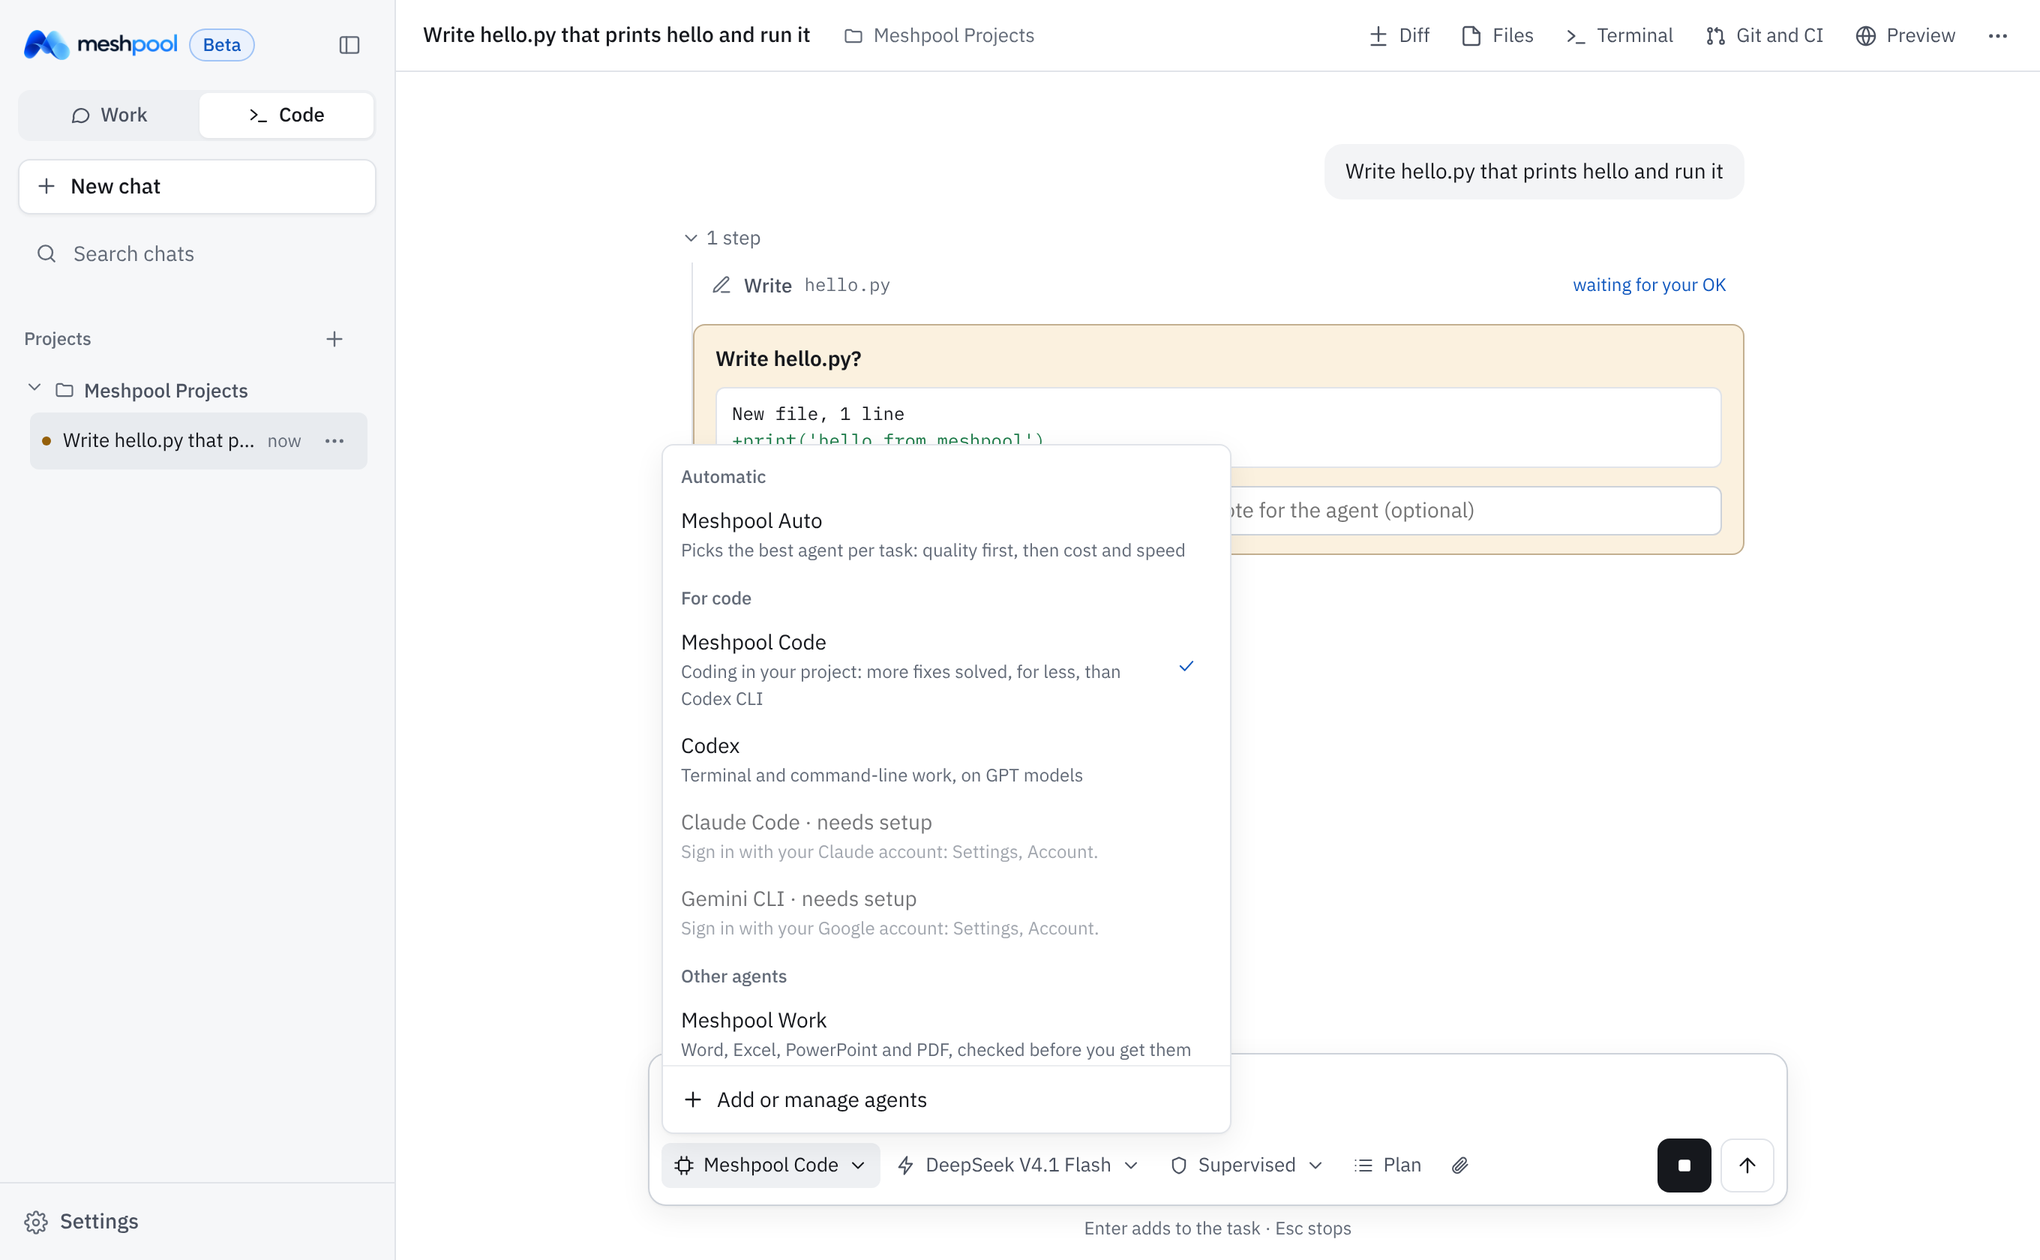
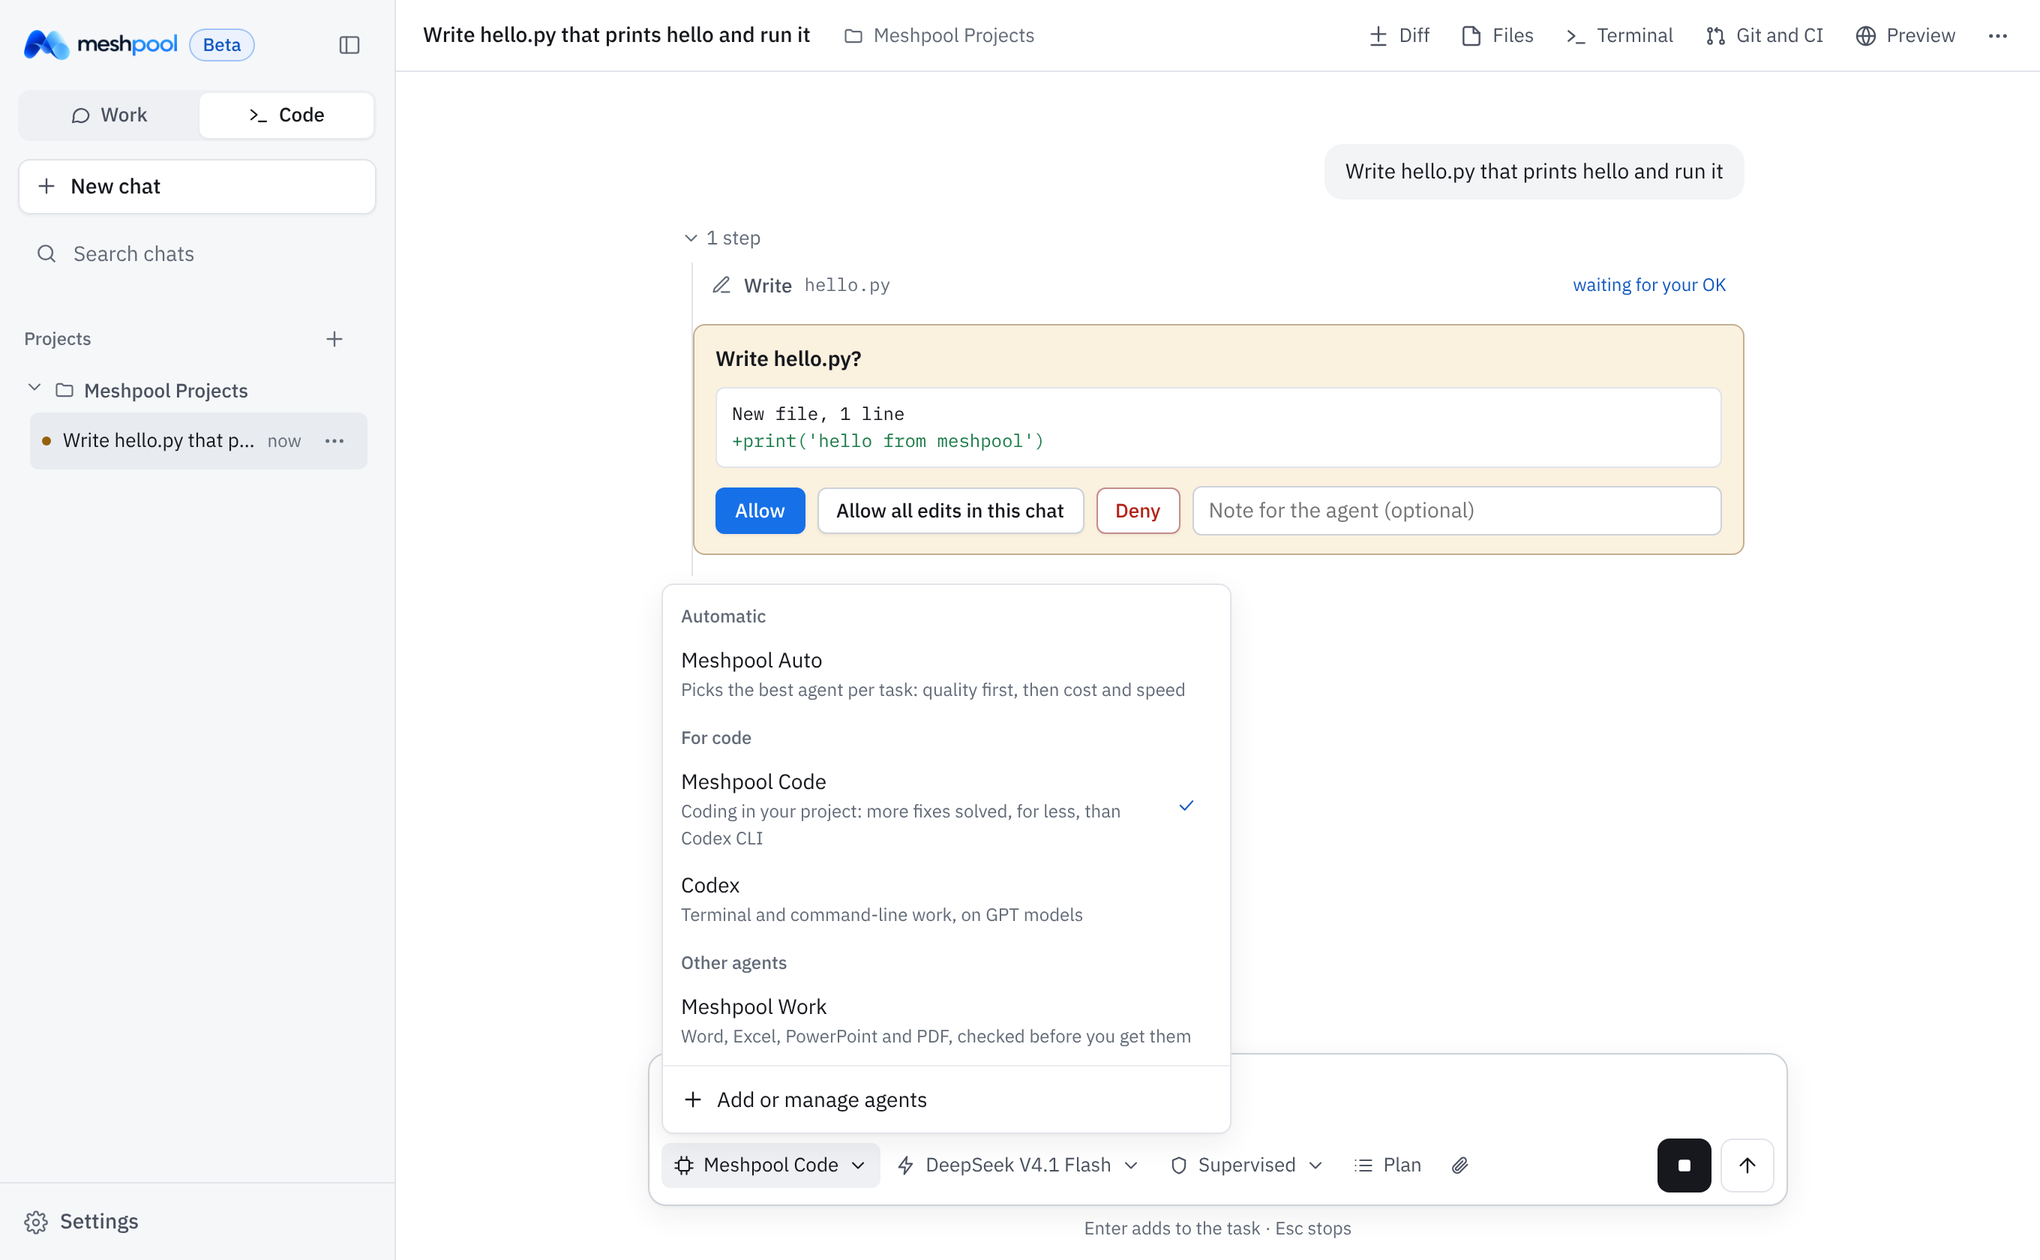
Declutter: one engine flag set instead of harness versions v2-v5, no 'older checks' profile, no experiment toggles in Settings, no license in About; fresh screenshots

Changed region(s): [[0.3397, 0.3405, 0.6176, 0.8357]]

diff --git a/app/meshpool_harness/ui/app.js b/app/meshpool_harness/ui/app.js
@@ -1610,9 +1610,7 @@ async function renderSection(sec) {
     b.innerHTML = `${close}<img class="logo" src="${logoSrc()}" alt="Meshpool" style="height:30px;margin-bottom:12px"><h3>Meshpool ${esc(a.version)}${/^0\./.test(a.version) ? " beta" : ""}</h3>
       <p class="lead">Made by ${esc(a.author)}. <a href="https://meshpool.ai" target="_blank" rel="noopener">meshpool.ai</a> · <a href="https://github.com/hamzaaziada/meshpool-harness/releases" target="_blank" rel="noopener">All releases</a> · <button class="linkbtn" id="aboutReport">Report a problem</button></p>
       <div class="updbox" id="updBox"><div style="display:flex;gap:8px;align-items:center;flex-wrap:wrap"><button class="btn" id="updCheck">Check for updates</button><span class="res" id="updRes" style="margin:0"></span></div><div id="updMore"></div></div>
-      <h3 style="font-size:16px;margin:16px 0 6px">License</h3><pre class="lic">${esc(a.notice)}</pre>
-      <details style="margin-top:10px"><summary class="linkbtn" style="display:inline">Apache License 2.0, full text</summary><pre class="lic">${esc(a.license)}</pre></details>
-      <details style="margin-top:8px"><summary class="linkbtn" style="display:inline">Third-party software</summary><pre class="lic">${esc(a.third_party)}</pre></details>`;
+      <details style="margin-top:16px"><summary class="linkbtn" style="display:inline">Third-party software</summary><pre class="lic">${esc(a.third_party)}</pre></details>`;
     $("#aboutReport").onclick = () => reportProblem();
     updatePanel(S.upd);
     $("#updCheck").onclick = async () => { RES("updRes").className = "res"; RES("updRes").textContent = "Checking..."; updatePanel(await checkUpdate(true)); };

diff --git a/app/tests/test_guards_features.py b/app/tests/test_guards_features.py
@@ -1,4 +1,4 @@
-"""v2 minimal profile: guard switches, additive test guard, feature defaults, timing log. No model calls."""
+"""Guard switches, additive test guard, feature defaults, timing log. No model calls."""
 import json
 import subprocess
 import sys
@@ -29,9 +29,7 @@ def _serve_dir(d) -> str:
 
 def test_guard_defaults_and_overrides(monkeypatch):
     monkeypatch.delenv("MH_GUARDS", raising=False)
-    monkeypatch.delenv("MH_HARNESS_PROFILE", raising=False)
-    assert all(G.enabled(g) for g in G.ALL_GUARDS)                 # v1: everything on
-    monkeypatch.setenv("MH_HARNESS_PROFILE", "minimal")
+    monkeypatch.delenv("MH_TEST_GUARD", raising=False)
     assert G.enabled("repeat_failure") and G.enabled("test_guard") and G.enabled("deliverables")
     assert not G.enabled("progress") and not G.enabled("explore_lock") and not G.enabled("finish_check")
     assert G.test_guard_mode() == "additive"
@@ -39,6 +37,8 @@ def test_guard_defaults_and_overrides(monkeypatch):
     assert G.enabled("progress") and not G.enabled("repeat_failure")
     monkeypatch.setenv("MH_GUARDS", "none")
     assert not G.enabled("test_guard")
+    monkeypatch.setenv("MH_GUARDS", "all")
+    assert all(G.enabled(g) for g in G.ALL_GUARDS)
 
 
 def _repo():
@@ -70,10 +70,9 @@ def test_test_guard_modes(monkeypatch, mode, change, blocked):
 
 def test_feature_defaults(monkeypatch):
     from engines.code.engine import feature
-    monkeypatch.delenv("MH_HARNESS_PROFILE", raising=False)
     monkeypatch.delenv("MH_ESCALATE", raising=False)
-    assert feature("MH_ESCALATE") and feature("MH_REGRESSION_GATE")
-    monkeypatch.setenv("MH_HARNESS_PROFILE", "minimal")
+    monkeypatch.delenv("MH_REGRESSION_GATE", raising=False)
+    monkeypatch.delenv("MH_TESTCMD", raising=False)
     assert not feature("MH_ESCALATE") and not feature("MH_REGRESSION_GATE") and feature("MH_TESTCMD")
     monkeypatch.setenv("MH_ESCALATE", "1")                          # each feature can be added back on its own
     assert feature("MH_ESCALATE")
@@ -82,7 +81,6 @@ def test_feature_defaults(monkeypatch):
 def test_timing_log(monkeypatch, tmp_path):
     log = tmp_path / "timing.jsonl"
     monkeypatch.setenv("MH_TIMING_LOG", str(log))
-    monkeypatch.setenv("MH_HARNESS_PROFILE", "minimal")
     d = tmp_path / "w"
     d.mkdir()
     (d / "f.txt").write_text("hello\n")
@@ -93,7 +91,7 @@ def test_timing_log(monkeypatch, tmp_path):
             require_check=False)
     assert r.ok
     row = json.loads(log.read_text().splitlines()[-1])
-    assert row["task_id"] == "tt" and row["model_calls"] == 2 and row["profile"] == "minimal"
+    assert row["task_id"] == "tt" and row["model_calls"] == 2
     assert row["model_s"] >= 0 and row["tool_s"] >= 0 and row["wall_s"] >= row["model_s"]
 
 

diff --git a/app/meshpool_harness/core/loop.py b/app/meshpool_harness/core/loop.py
@@ -82,9 +82,9 @@ from .finishing import scope_report as _scope_report  # noqa: E402,F401  (shared
 
 class _KeepWarm:
     """MH_KEEPWARM_S=<seconds> (default off). While tools run longer than that, re-send the conversation so far with
-    max_tokens=24 every <seconds> (the gateway sends max_tokens=1 requests to a backend without this cache: findings
-    006), so the serving side keeps its prompt cache warm. Run C showed almost all avoidable
-    cache misses come after gaps over 40 s between calls (harness-lab/findings/001). A ping reads the prefix at the
+    max_tokens=24 every <seconds> (the gateway sends max_tokens=1 requests to a backend without this cache), so the
+    serving side keeps its prompt cache warm. Run C showed almost all avoidable
+    cache misses come after gaps over 40 s between calls. A ping reads the prefix at the
     cached price (about 50 times cheaper than a miss). The prefix ends before the latest assistant message, so the
     request stays valid (no tool call without its result) and is an exact prefix of the next real request. It keeps the
     real task_id so it carries the same prompt_cache_key and session header (same backend); role="keepwarm" marks it."""
@@ -169,7 +169,7 @@ def _run(task_text: str, *, client, model: str, profile, ws: Workspace, ctx: dic
     if os.environ.get("MH_OBSERVE") == "1" and "bash" in tool_names and "probe" not in tool_names:
         i = tool_names.index("bash") + 1                                     # see the bug before editing it
         tool_names = tool_names[:i] + ["probe", "trace"] + tool_names[i:]
-    if os.environ.get("MH_TODO") == "1" and "todo" not in tool_names:      # v3: required todo list (ForgeCode)
+    if os.environ.get("MH_TODO") == "1" and "todo" not in tool_names:      # required todo list (ForgeCode)
         tool_names = [n for n in tool_names if n != "finish"] + ["todo", "finish"]
     sys_msg, tools, sha = build_prefix(system_text, tool_names, ws.skills)
     messages = [{"role": "system", "content": sys_msg}, {"role": "user", "content": task_text}]

diff --git a/app/engines/code/engine.py b/app/engines/code/engine.py
@@ -190,7 +190,7 @@ def solve(task: str, *, workdir: str, task_id: str, max_turns: int = 60, model: 
     ctx = {"task_id": task_id, "model": model, "profile": "deepseek", "role": "worker"}
     import time as _time
     t0 = _time.time()
-    if os.environ.get("MH_ENV_SNAPSHOT") == "1":            # v3: saves the first exploration turns (Meta-Harness, Droid)
+    if os.environ.get("MH_ENV_SNAPSHOT") == "1":            # saves the first exploration turns (Meta-Harness, Droid)
         try:
             snap, _ = ws._run("pwd; ls -la 2>/dev/null | head -40; echo '---'; "
                               "(python3 --version; pip --version; node --version; gcc --version | head -1; go version; "
@@ -205,10 +205,10 @@ def solve(task: str, *, workdir: str, task_id: str, max_turns: int = 60, model: 
     if os.environ.get("MH_MULTI_CMD") == "1":
         system += ("\nTurns are limited. When you need several independent facts (file ranges, greps, versions, listings), "
                    "get them in ONE bash_many call instead of one command per turn.")
-    if os.environ.get("MH_TERSE") == "1":              # v4: output tokens cost 4x input; keep prose between calls short
+    if os.environ.get("MH_TERSE") == "1":              # output tokens cost 4x input; keep prose between calls short
         system += ("\nBetween tool calls write at most one short sentence. Put the work in tool arguments, not in "
                    "prose, and do not repeat file contents or command output back.")
-    if os.environ.get("MH_OBSERVE") == "1":               # see the bug before editing it (findings 007)
+    if os.environ.get("MH_OBSERVE") == "1":               # see the bug before editing it (core/observe.py)
         system += ("\nBefore your first edit, reproduce the problem with probe (a failing test or a short script) "
                    "and read its diagnosis. If the cause is not clear, run trace on the same command to see which "
                    "project functions run. After an edit, use probe to see what still fails.")

diff --git a/app/tests/test_finish_same_turn.py b/app/tests/test_finish_same_turn.py
@@ -1,5 +1,4 @@
 """MH_CODE_FINISH_SAME_TURN: a check and finish in one turn; the guard still refuses a failing check (no model calls)."""
-import json
 import subprocess
 
 from meshpool_harness.core.client import MockClient, tool_call
@@ -38,7 +37,8 @@ def test_pass_and_finish_in_one_turn(tmp_path):
     assert r.ok and r.turns == 3 and len(c.requests) == 3
 
 
-def test_failing_check_refuses_same_turn_finish(tmp_path):
+def test_failing_check_refuses_same_turn_finish(tmp_path, monkeypatch):
+    monkeypatch.setenv("MH_GUARDS", "all")                          # finish_check is off by default
     d = _repo(tmp_path)
     r, c = _go(d, [tool_call("read_file", {"path": "calc.py"}),
                    tool_call("edit", {"path": "calc.py", "old": "a - b", "new": "a * b"}), _both("wrong"),
@@ -53,4 +53,4 @@ def test_prompt_line_only_with_flag(monkeypatch):
     eng = importlib.import_module("engines.code.engine")
     src = open(eng.__file__).read()
     assert 'os.environ.get("MH_CODE_FINISH_SAME_TURN") == "1"' in src
-    assert "finish together in the same turn" not in json.dumps([eng.SYSTEM, eng.SYSTEM_MIN])
+    assert "finish together in the same turn" not in eng.SYSTEM

diff --git a/app/tests/test_terminal_mode.py b/app/tests/test_terminal_mode.py
@@ -17,6 +17,7 @@ def _ws():
 
 
 def test_progress_nudge_off_in_terminal_mode(monkeypatch):
+    monkeypatch.setenv("MH_GUARDS", "all")                          # these guards are off by default
     g = Guards({"task_id": "t"}, _ws())
     monkeypatch.delenv("MH_MODE", raising=False)
     assert g.progress(12, 60, 0, True)
@@ -26,6 +27,7 @@ def test_progress_nudge_off_in_terminal_mode(monkeypatch):
 
 
 def test_exploration_lock_off_in_terminal_mode(monkeypatch):
+    monkeypatch.setenv("MH_GUARDS", "all")                          # these guards are off by default
     monkeypatch.setenv("MH_MODE", "terminal")
     script = [tool_call("bash", {"command": f"echo step{i}"}) for i in range(28)]
     script += [tool_call("finish", {"answer": "done", "evidence": ["echo step27"]})] * 3
@@ -44,6 +46,7 @@ def test_timeout_cap_terminal(monkeypatch):
 
 
 def test_light_mode_turns_off_nudges(monkeypatch):
+    monkeypatch.setenv("MH_GUARDS", "all")                          # these guards are off by default
     monkeypatch.setenv("MH_MODE", "light")
     g = Guards({"task_id": "t"}, _ws())
     assert g.progress(12, 60, 0, True) is None

diff --git a/app/tests/test_loop.py b/app/tests/test_loop.py
@@ -35,7 +35,8 @@ def test_happy_path(tmp_path):
     assert r.ok and "a + b" in (d / "calc.py").read_text()
 
 
-def test_finish_without_check_rejected(tmp_path):
+def test_finish_without_check_rejected(tmp_path, monkeypatch):
+    monkeypatch.setenv("MH_GUARDS", "all")                          # finish_check is off by default
     d = repo(tmp_path)
     r, c, ws = go(d, [tool_call("read_file", {"path": "calc.py"}),
                       tool_call("edit", {"path": "calc.py", "old": "a - b", "new": "a + b"}),
@@ -88,7 +89,8 @@ def test_repeat_failure_guard(tmp_path):
     assert any("repeat_failure" in m["content"] for m in c.requests[3]["messages"] if m["role"] == "user")
 
 
-def test_error_not_quoted_guard(tmp_path):
+def test_error_not_quoted_guard(tmp_path, monkeypatch):
+    monkeypatch.setenv("MH_GUARDS", "all")                          # error_quote is off by default
     d = repo(tmp_path)
     r, c, ws = go(d, [tool_call("run_tests", {"command": T}),
                       tool_call("glob", {"pattern": "*.py"}),

diff --git a/app/meshpool_harness/core/guards.py b/app/meshpool_harness/core/guards.py
@@ -94,7 +94,7 @@ class Guards:
         return "\n".join(msgs) or None
 
     def stall(self, turn: int) -> str | None:
-        """v3 loop breaker (MH_STALL=1): progress = a file change or a passing command not run before. After 12 turns
+        """Loop breaker (MH_STALL=1): progress = a file change or a passing command not run before. After 12 turns
         without progress, nudge once to change approach; again at 24. Never blocks anything."""
         if os.environ.get("MH_STALL") != "1":
             return None
@@ -116,7 +116,7 @@ class Guards:
         return None
 
     def repeat_calls(self, calls: list) -> str | None:
-        """v3 (MH_DOOM=1): 3 identical tool calls in a row, or a 2-3 call pattern repeated 3 times -> one reminder."""
+        """MH_DOOM=1: 3 identical tool calls in a row, or a 2-3 call pattern repeated 3 times -> one reminder."""
         if os.environ.get("MH_DOOM") != "1" or not calls:
             return None
         hist = getattr(self, "_call_hist", [])

diff --git a/app/meshpool_harness/harness_router.py b/app/meshpool_harness/harness_router.py
@@ -54,8 +54,8 @@ def classify(text: str, t: dict | None = None) -> tuple[str, list[str]]:
 def _ready(kind: str) -> dict:
     """Harnesses Auto may pick: installed, set up on a provider, and not a subscription the user kept for itself."""
     from meshpool_harness import harnesses as HR
-    # A harness on a Claude or ChatGPT sign-in spends the user's own plan. Auto uses that plan freely when it is the
-    # provider the user chose, and any other plan only after the user allowed it.
+    # A harness on a ChatGPT sign-in spends the user's own plan. Auto uses that plan freely when ChatGPT is the
+    # provider the user chose, and otherwise only after the user allowed it.
     subs_ok = (C.read().get("MH_AUTO_SUBSCRIPTIONS") or os.environ.get("MH_AUTO_SUBSCRIPTIONS", "0")) == "1"
     chosen = HR.provider()
     return {h["id"]: h for h in HR.load_all()

diff --git a/app/meshpool_harness/core/finishing.py b/app/meshpool_harness/core/finishing.py
@@ -7,7 +7,7 @@ from .guards import TEST_PATH
 def scope_report(ws, done: str = "finish") -> str | None:
     """MH_SCOPE_CHECK=1: at the first finish, if the change spreads past a minimal fix (more than one non-test source
     file, or more than 30 changed non-test lines), show the per-file diff size once and ask to drop what the task
-    does not need. Rule fixed in advance (harness-lab LOG cycle 5), not tuned on any task. None = nothing to show."""
+    does not need. Rule fixed in advance, not tuned on any task. None = nothing to show."""
     try:
         out, _ = ws._run("git diff --numstat HEAD -- . ':!.run' ':!.junie' 2>/dev/null", 30, "bash", record=False)
     except Exception:                                 # noqa: BLE001 - a report must never break a run

diff --git a/testkit/e2e_full.py b/testkit/e2e_full.py
@@ -70,7 +70,7 @@ mid = m["models"][0]["id"]
 check("model favorite", mid in call("/api/models/favorite", {"id": mid, "on": True}).get("favorites", []))
 check("model default", call("/api/models/default", {"id": mid}).get("default") == mid)
 a = call("/api/about")
-check("about page has version, credit and license", a.get("version") and "Meshpool" in a.get("notice", "") and "Apache" in a.get("license", "") and "Hamza" not in json.dumps(a), a)
+check("about page has version, credit and third-party notices", a.get("version") and a.get("author") == "Meshpool" and a.get("third_party") and "notice" not in a and "license" not in a and "Hamza" not in json.dumps(a), a)
 check("usage", "total" in call("/api/usage"))
 check("permissions", "rows" in call("/api/permissions", {}))
 

diff --git a/app/meshpool_harness/ui/server.py b/app/meshpool_harness/ui/server.py
@@ -298,8 +298,8 @@ class Handler(BaseHTTPRequestHandler):
                         except OSError:
                             continue
                     return ""
-                return self._send(200, {"version": MH.__version__, "author": MH.__author__, "notice": rd("NOTICE"),
-                                        "license": rd("LICENSE"), "third_party": rd("THIRD_PARTY_NOTICES.md")})
+                return self._send(200, {"version": MH.__version__, "author": MH.__author__,
+                                        "third_party": rd("THIRD_PARTY_NOTICES.md")})
             if u.path == "/api/agent":
                 return self._send(200, {"sessions": A.listing()})
             if u.path == "/api/mcp":
